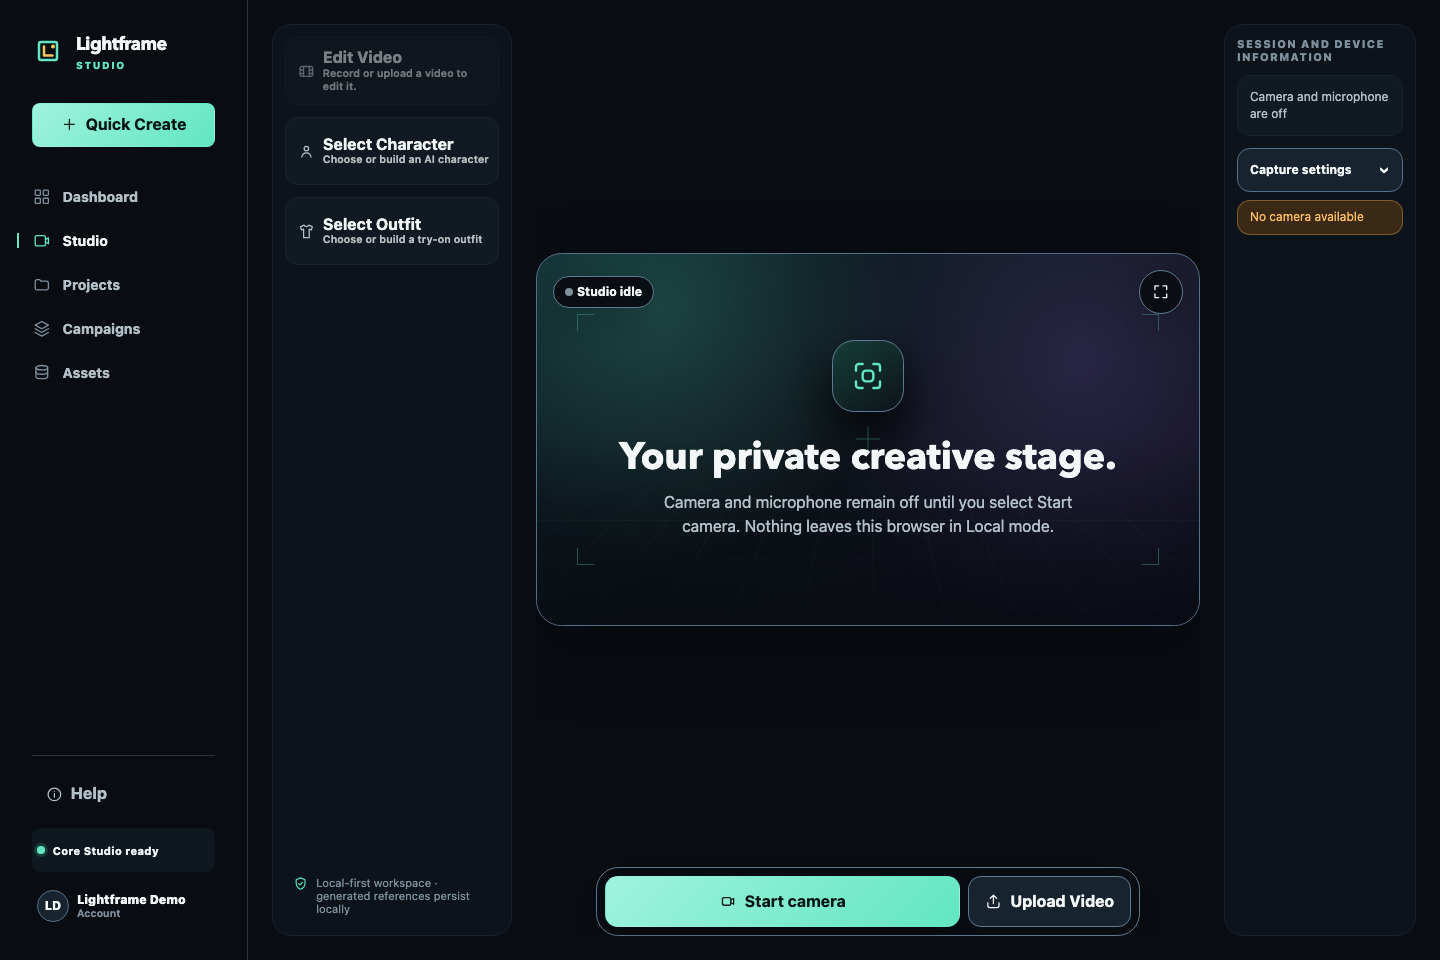
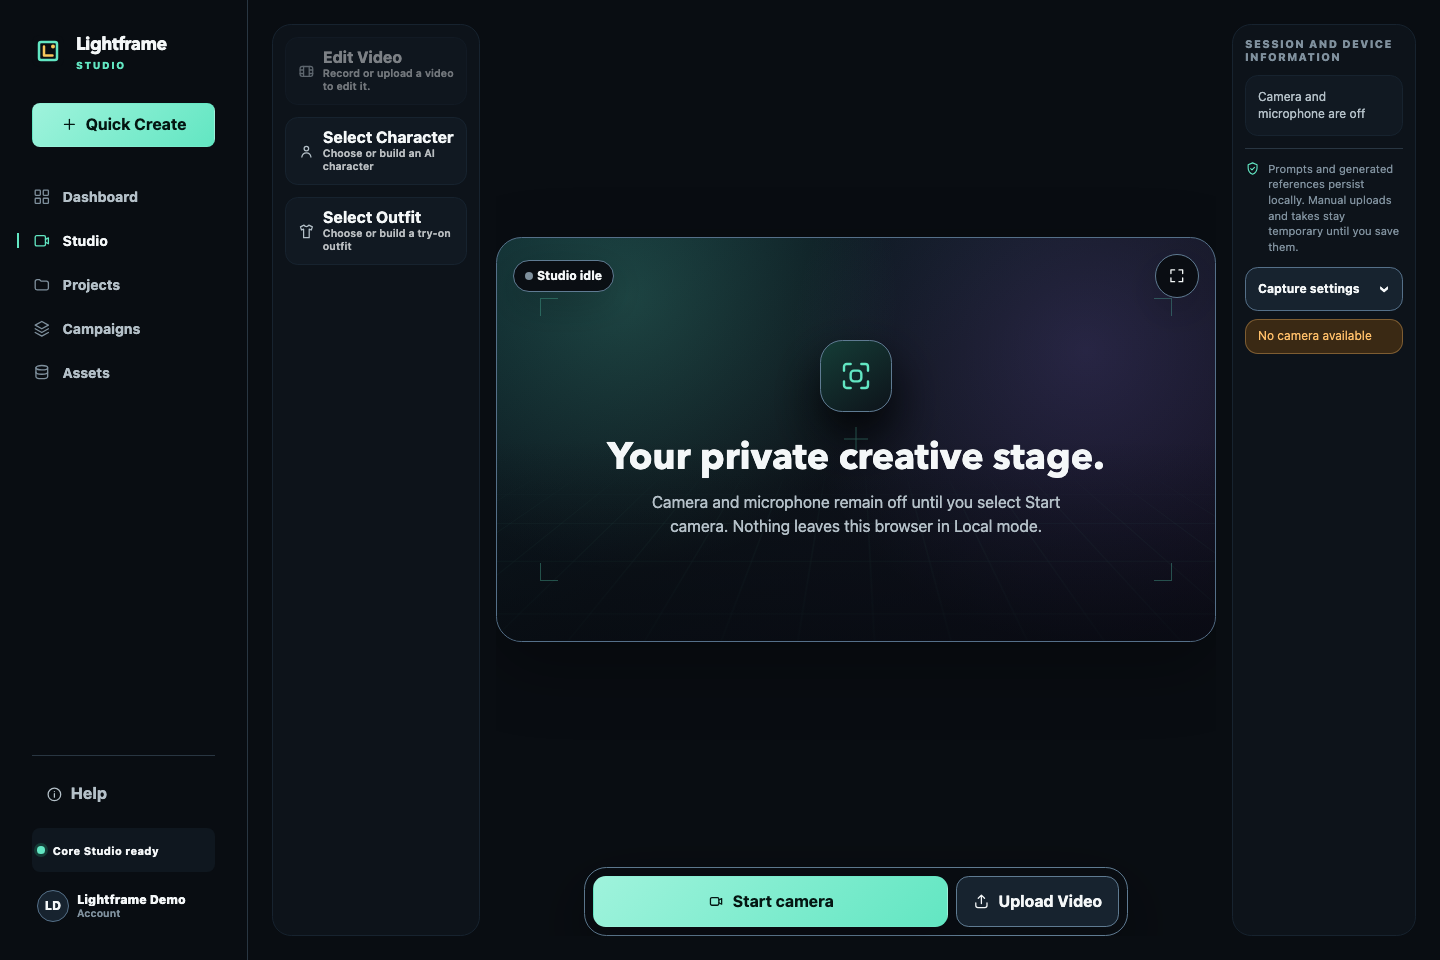
feat(web): give the stage the width it was missing
Item 31 of the UX plan, both halves.

The tool rail's last slot held a privacy footnote — an unactionable sentence
whose full text lived only in a `title` a touch user never sees. What a
session keeps is a fact about the session, so it moves to the session and
device column beside the other facts, as a visible sentence.

The stage frame is width-bound: its column is far taller than 16:9 of
itself, so every rem the side columns give back is frame. The tool rail and
the capture column are now sized to their content instead of to a
comfortable band, and the gap between them tightens, which grows the 1440px
frame from 661×372 to 718×404. The rail's descriptions wrap to two lines
rather than truncating, so the narrower column teaches more, not less.

diff --git a/apps/web/src/studio/StudioApp.styles.ts b/apps/web/src/studio/StudioApp.styles.ts
@@ -691,9 +691,15 @@ export const stageColumnStyles = (theme: Theme): CSSObject => ({
     },
   },
   [media.up('laptop')]: {
-    gridTemplateColumns: 'minmax(12rem, 15rem) minmax(0, 1fr) minmax(18rem, 20rem)',
+    /*
+     * The stage is the work, so the two columns beside it are sized to their content rather than
+     * to a comfortable band: the tool rail holds three labelled buttons, and a collapsed capture
+     * column holds two device rows and a control. Every rem taken back here is width the 16:9
+     * frame can use, and width is what binds it — the column is far taller than 16:9 of itself.
+     */
+    gridTemplateColumns: 'minmax(10.5rem, 13rem) minmax(0, 1fr) minmax(16rem, 18rem)',
     gridTemplateRows: 'minmax(0, 1fr)',
-    gap: theme.space.lg,
+    gap: theme.space.md,
     '& > [data-media-stage-layout]': { gridColumn: 2, gridRow: 1 },
     '& > [data-studio-tool-rail]': { gridColumn: 1, gridRow: 1 },
     '& > [data-capture-controls]': { gridColumn: 3, gridRow: 1 },
@@ -704,7 +710,7 @@ export const stageColumnStyles = (theme: Theme): CSSObject => ({
      * the operator just clicked.
      */
     '&[data-capture-settings="collapsed"]': {
-      gridTemplateColumns: 'minmax(12rem, 15rem) minmax(0, 1fr) minmax(10.5rem, 12rem)',
+      gridTemplateColumns: 'minmax(10.5rem, 13rem) minmax(0, 1fr) minmax(10rem, 11.5rem)',
     },
     '&[data-video-edit-active="true"]': {
       gridTemplateRows: 'minmax(0, 1fr)',
@@ -717,7 +723,7 @@ export const stageColumnStyles = (theme: Theme): CSSObject => ({
       '& > [data-studio-tool-rail]': { gridColumn: 1, gridRow: 2 },
       '&[data-video-edit-active="true"]': {
         gridTemplateRows: 'minmax(0, 1fr)',
-        gridTemplateColumns: 'minmax(12rem, 15rem) minmax(0, 1fr) minmax(18rem, 20rem)',
+        gridTemplateColumns: 'minmax(10.5rem, 13rem) minmax(0, 1fr) minmax(16rem, 18rem)',
         '& > [data-media-stage-layout]': { gridColumn: 2, gridRow: 1 },
         '& > [data-studio-tool-rail]': { gridColumn: 1, gridRow: 1 },
         '& > [data-capture-controls]': { gridColumn: 3, gridRow: 1 },
@@ -875,10 +881,15 @@ export const toolRailStyles = (theme: Theme): CSSObject => ({
       padding: theme.space.sm,
       whiteSpace: 'normal',
     },
+    // Two clamped lines rather than one truncated one: the rail is sized to its buttons now, and
+    // a description that ends in an ellipsis teaches nothing.
     '& [data-tool-label] small': {
-      display: 'block',
+      display: '-webkit-box',
       maxWidth: 'none',
-      whiteSpace: 'nowrap',
+      WebkitBoxOrient: 'vertical',
+      WebkitLineClamp: 2,
+      whiteSpace: 'normal',
+      lineHeight: 1.25,
     },
     '& [data-tool-label] small[data-tool-blocked]': {
       display: '-webkit-box',

diff --git a/apps/web/src/features/recording/RecordingControls.tsx b/apps/web/src/features/recording/RecordingControls.tsx
@@ -196,6 +196,30 @@ const compactDeviceSummaryStyles = (theme: Theme): CSSObject => ({
   ...detailsStyles(theme),
   [media.up('laptop')]: { display: 'none' },
 });
+/**
+ * The one place the product states what a session keeps. It only fits the wide session column, so
+ * on a compact layout the same sentence stays where it has always been reachable: the Help panel's
+ * privacy section and the idle stage's own line about the camera.
+ */
+const retentionNoteStyles = (theme: Theme): CSSObject => ({
+  display: 'none',
+  [media.up('laptop')]: {
+    display: 'grid',
+    gridTemplateColumns: 'auto minmax(0, 1fr)',
+    alignItems: 'start',
+    gap: theme.space.xs,
+    margin: 0,
+    marginBlockStart: 'auto',
+    paddingBlockStart: theme.space.sm,
+    borderBlockStart: `1px solid ${theme.colors.divider}`,
+    color: theme.colors.textFaint,
+    fontSize: '0.7rem',
+    lineHeight: 1.4,
+    '& svg': { width: '0.95rem', height: '0.95rem', color: theme.colors.accent },
+  },
+  [`${media.up('laptop')} and (max-height: 48rem)`]: { display: 'none' },
+});
+
 const settingsActionStyles = (theme: Theme): CSSObject => ({
   minHeight: '2.75rem',
   paddingInline: theme.space.sm,
@@ -349,6 +373,18 @@ export const RecordingControls = ({
             Device settings
           </Button>
         ) : null}
+        {/*
+          What persists is a fact about this session, so it belongs beside the other facts about
+          it. It used to occupy a slot in the tool rail, where it displaced a tool and survived
+          only as a `title` a touch user never sees; here it is a visible sentence.
+        */}
+        <p css={retentionNoteStyles(theme)}>
+          <AppIcon name="privacy" />
+          <span>
+            Prompts and generated references persist locally. Manual uploads and takes stay
+            temporary until you save them.
+          </span>
+        </p>
       </div>
       {desktopSettings ? (
         <div css={desktopSettingsStyles(theme, desktopSettingsExpanded)}>

diff --git a/apps/web/src/studio/CreativeWorkspace.tsx b/apps/web/src/studio/CreativeWorkspace.tsx
@@ -157,10 +157,6 @@ export const CreativeWorkspace = ({ state, actions, refs }: CreativeWorkspacePro
           </small>
         </span>
       </Button>
-      <span title="Prompts and generated references persist locally; manual uploads and takes stay temporary.">
-        <AppIcon name="privacy" />
-        Local-first workspace · generated references persist locally
-      </span>
     </nav>
   );
 };
